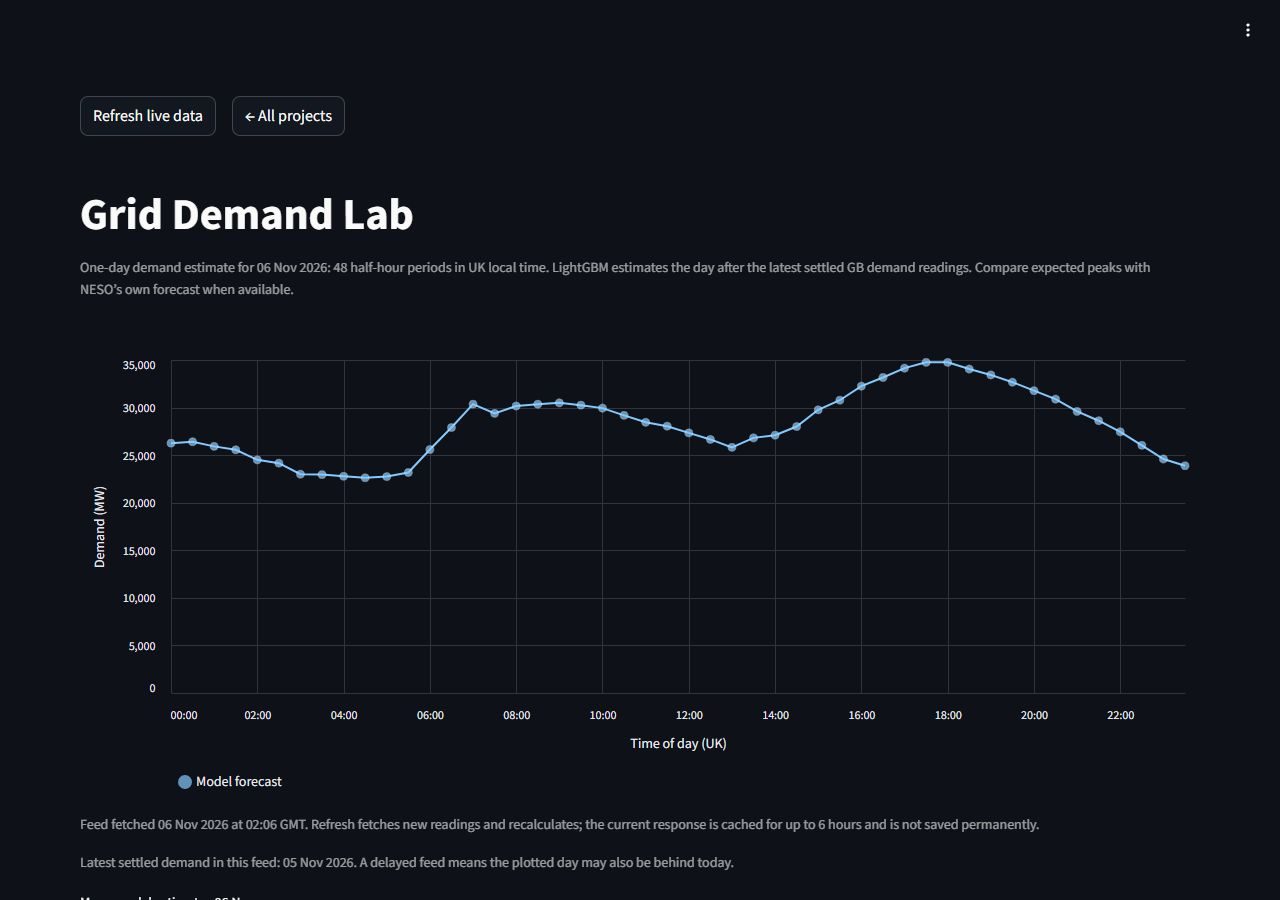
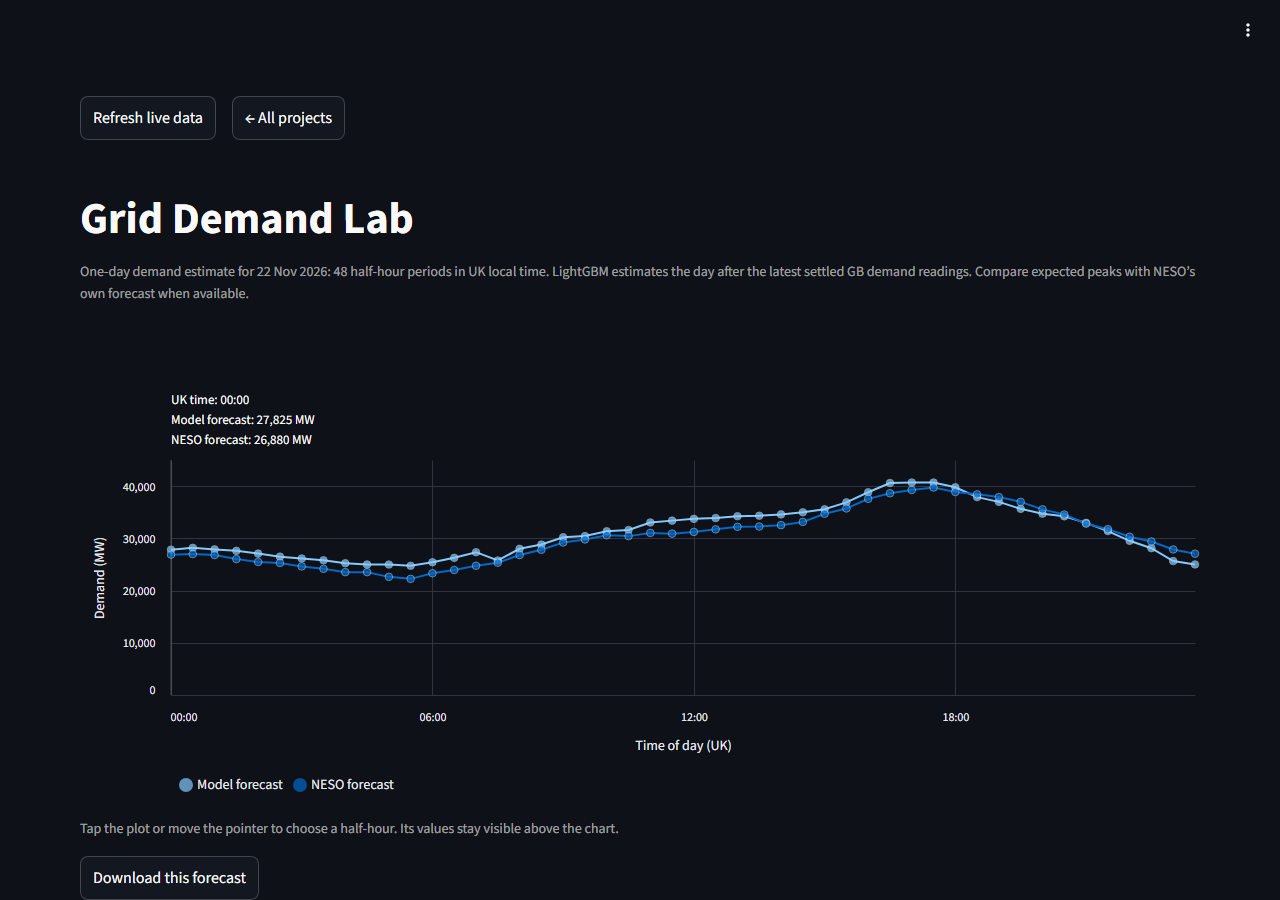
Refresh portfolio project evidence

diff --git a/src/components/studyData.ts b/src/components/studyData.ts
@@ -5,7 +5,7 @@ export const studies = {
   "runbook-desk": {
     title: "Runbook Desk",
     subtitle: "Support cases with a review trail.",
-    revision: "ff2f6d8",
+    revision: "74dacae",
     stack: "React · TypeScript · FastAPI · PostgreSQL",
     live: "https://runbook.artemislab.co.uk/",
     source: "https://github.com/s7a7ic-37/runbook-desk",
@@ -22,17 +22,17 @@ export const studies = {
       {label: "Database retry tests", path: "tests/test_creation_retries.py"},
       {label: "Review and deletion tests", path: "tests/test_workflow.py"},
       {label: "Handoff snapshot tests", path: "frontend/tests/report.test.ts"},
-      {label: "CI run with Docker build", path: "https://github.com/s7a7ic-37/runbook-desk/actions/runs/44918667924"},
+      {label: "CI run with Docker build", path: "https://github.com/s7a7ic-37/runbook-desk/actions/runs/44925210844"},
       {label: "API routes", path: "server/main.py"},
     ],
-    demo: "Open the read-only worked example to see the case and its sources. When the workspace connects, you can edit a reply, record a review and download the handoff.",
+    demo: "Open the worked example and expand a procedure below a suggested check. When the case server connects, you can edit a reply, record a review and download the handoff.",
     limits: "Examples are fictional and browser workspaces are anonymous, not user accounts. OpenAI support is implemented, but real model calls are disabled. Free hosting may take time to start.",
     contribution: "Personal project. The review, save and recovery flows are covered by tests and hosted checks.",
   },
   "pure-news": {
     title: "Pure News",
     subtitle: "A news site with search, comments and votes.",
-    revision: "f1bfac2",
+    revision: "9d94fbb",
     stack: "React · Express · PostgreSQL · Jest · Playwright",
     live: "https://news.artemislab.co.uk/",
     source: "https://github.com/s7a7ic-37/pure-news",
@@ -50,49 +50,50 @@ export const studies = {
       {label: "Saved-story recovery tests", path: "tests/browser/reading-list.spec.js"},
       {label: "API search and validation tests", path: "https://github.com/s7a7ic-37/pure-news-api/blob/e6c5273/__tests__/app.test.js"},
       {label: "API race regression test", path: "https://github.com/s7a7ic-37/pure-news-api/blob/e3dc588/__tests__/comments.models.test.js"},
-      {label: "Frontend CI run", path: "https://github.com/s7a7ic-37/pure-news/actions/runs/44920778529"},
+      {label: "Frontend CI run", path: "https://github.com/s7a7ic-37/pure-news/actions/runs/44927106859"},
       {label: "API CI run", path: "https://github.com/s7a7ic-37/pure-news-api/actions/runs/42480464240"},
     ],
-    demo: "Search Technology for “Running a Node App”, open the story, then return to the same results. When the feed is unavailable, use Read sample edition.",
+    demo: "Search Technology for “Running a Node App”, open the story, then return to the same results. You can open the sample edition while the feed loads.",
     limits: "Voting is anonymous, and sample identities are not user accounts. Saved stories stay in the browser. A public news service would need accounts and moderation; the free API may sleep.",
     contribution: "Started as a Northcoders project. Starter work, sample data and the original team history remain credited in the repository; this page describes later browser and API work.",
   },
   "grid-demand-lab": {
     title: "Grid Demand Lab",
     subtitle: "Estimating tomorrow’s electricity demand.",
-    revision: "7b9f328",
+    revision: "d123576",
     stack: "Python · LightGBM · pandas · Streamlit · NESO API",
     live: "https://grid.artemislab.co.uk/",
     source: "https://github.com/s7a7ic-37/grid-demand-lab",
-    problem: "The dashboard reads Great Britain demand data from NESO, predicts the next day with LightGBM and compares it with NESO’s forecast when available.",
-    flow: ["Read the NESO feed", "Check dates and settlement periods", "Estimate next-day demand", "Compare or download the results"],
+    problem: "The dashboard reads Great Britain demand data from NESO and predicts the next day with LightGBM. It shows an official day-ahead forecast alongside the model when a complete issue is available.",
+    flow: ["Read settled demand", "Check dates and settlement periods", "Estimate next-day demand", "Compare with an official forecast"],
     decisions: [
-      {title: "Match periods by date", text: "Previous-day and previous-week values use the calendar date and settlement period. This handles 46- and 50-period days without shifting every later row.", path: "forecast.py"},
+      {title: "Match periods by date", text: "The model matches past readings by date and settlement period. When the main feed has no comparison, a complete Elexon day-ahead issue must match the same dates, periods and UK clocks.", path: "forecast.py"},
       {title: "Compare with simple baselines", text: "A 28-day holdout and four quarter-end tests compare the model with previous-day and previous-week forecasts. The test periods do not choose the model.", path: "tests/test_forecast.py"},
       {title: "Keep the last forecast after errors", text: "Refresh recalculates with the existing model. If the feed fails, the open session keeps its last chart and CSV with the original timestamp.", path: "app.py"},
     ],
-    proof: "On a 28-day 2025 holdout, model MAE was 1,604 MW; previous-day and previous-week baselines were 1,960 MW and 2,278 MW. Tests cover feed parsing, 46/48/50-period days and CSV export.",
+    proof: "On a 28-day 2025 holdout, model MAE was 1,604 MW. The previous-day and previous-week baselines had errors of 1,960 MW and 2,278 MW. The live CSV matched all 48 periods of one published day-ahead issue.",
     checks: [
       {label: "Forecast and time-split tests", path: "tests/test_forecast.py"},
       {label: "Chart interaction tests", path: "tests/test_plotting.py"},
       {label: "Refresh recovery tests", path: "tests/test_refresh.py"},
-      {label: "Green CI run", path: "https://github.com/s7a7ic-37/grid-demand-lab/actions/runs/44915967482"},
+      {label: "Green CI run", path: "https://github.com/s7a7ic-37/grid-demand-lab/actions/runs/44927052877"},
+      {label: "Official day-ahead forecast", path: "https://bmrs.elexon.co.uk/api-documentation/endpoint/datasets/NDF"},
     ],
-    demo: "Choose a time on the chart, download the displayed forecast, then open the backtests to compare historical errors.",
-    limits: "The tests use historical data and do not show that the model is suitable for grid operations. The live feed can lag; incomplete days use a weekly fallback. Extra repeated-hour predictions reuse period 48. Free hosting may take time to start.",
-    contribution: "Personal project using public NESO data. It is a learning tool, not an operational grid forecast.",
+    demo: "Choose a half-hour on the chart and download the forecast CSV. If the comparison came from Elexon, the CSV includes its issue time and attribution. Open the backtests to compare historical errors.",
+    limits: "This is an exploratory forecast. The live feed can lag, and missing prior-day readings use the matching half-hour from last week. Extra repeated-hour predictions reuse period 48. Free hosting may take time to start.",
+    contribution: "Personal project using public demand data from NESO and Elexon.",
   },
   "travel-planner": {
     title: "Ready, Jet Set, Go!",
     subtitle: "Plan a city trip and adjust the stops.",
-    revision: "fd5bd74",
+    revision: "d982b6c",
     stack: "Next.js · React · TypeScript · Material UI",
     live: "https://travel.artemislab.co.uk/demo/",
     source: "https://github.com/s7a7ic-37/travel-planner",
     problem: "Choose a UK city, trip length and interests, then make changes to the suggested itinerary. Recent plans can be reopened, exported or printed.",
     flow: ["Choose a city and interests", "Generate a suggested plan", "Replace or reorder stops", "Save, export or print"],
     decisions: [
-      {title: "Use curated city lists", text: "Five city catalogues and seven interests feed the planner. It varies suggestions while keeping stops in the selected city.", path: "travel-planner-fe/lib/demo.ts"},
+      {title: "Use curated city lists", text: "Five city catalogues and seven interests feed the planner. When it fills a longer plan with other stops in the city, it shows the number that matched the chosen interests.", path: "travel-planner-fe/lib/demo.ts"},
       {title: "Keep plan files local", text: "JSON exports include the city, trip length, interests and stop order. Imports are limited to 6 KB and checked against known places before replacing the open plan.", path: "travel-planner-fe/app/demo/page.tsx"},
       {title: "Keep newer edits", text: "If a file read finishes after the planner has changed, that older import is discarded. Saving the current plan is a separate action.", path: "travel-planner-fe/app/demo/page.tsx"},
     ],
@@ -102,7 +103,7 @@ export const studies = {
       {label: "Shared itinerary link tests", path: "travel-planner-fe/tests/itinerary.test.mjs"},
       {label: "Planner browser regressions", path: "travel-planner-fe/tests/browser/planner.spec.mjs"},
       {label: "Calendar export tests", path: "travel-planner-fe/tests/calendar.test.mjs"},
-      {label: "Green CI run", path: "https://github.com/s7a7ic-37/travel-planner/actions/runs/44920003116"},
+      {label: "Green CI run", path: "https://github.com/s7a7ic-37/travel-planner/actions/runs/44925081929"},
     ],
     demo: "Pick a city and interests, generate a plan, then try another city. Open Recent itineraries, export a plan or print it.",
     limits: "Places are curated. The demo has no live opening times, prices, bookings or route planning.",

diff --git a/tests/browser/case-studies.spec.js b/tests/browser/case-studies.spec.js
@@ -10,8 +10,8 @@ const evidenceLinks = {
     ["SDK-generated sample ↗", "https://github.com/s7a7ic-37/trace-timeline/blob/950a31b/tests/fixtures/sdk-export.json"],
   ],
   "depot-booking": [
-    ["PostgreSQL API tests ↗", "https://github.com/s7a7ic-37/depot-booking/blob/11c6360/tests/booking.test.mjs"],
-    ["Mobile booking tests ↗", "https://github.com/s7a7ic-37/depot-booking/blob/11c6360/web/tests/booking.spec.js"],
+    ["PostgreSQL API tests ↗", "https://github.com/s7a7ic-37/depot-booking/blob/29b475a/tests/booking.test.mjs"],
+    ["Mobile booking tests ↗", "https://github.com/s7a7ic-37/depot-booking/blob/29b475a/web/tests/booking.spec.js"],
   ],
   "river-data-monitor": [
     ["Import tests ↗", "https://github.com/s7a7ic-37/river-data-monitor/blob/d594ea9/tests/test_monitor.py"],
@@ -31,31 +31,31 @@ const evidenceLinks = {
     ["CI gate verification ↗", "https://github.com/s7a7ic-37/release-check/blob/dcd9f0a/.github/workflows/checks.yml"],
   ],
   "runbook-desk": [
-    ["Database retry tests ↗", "https://github.com/s7a7ic-37/runbook-desk/blob/ff2f6d8/tests/test_creation_retries.py"],
-    ["Review and deletion tests ↗", "https://github.com/s7a7ic-37/runbook-desk/blob/ff2f6d8/tests/test_workflow.py"],
-    ["Handoff snapshot tests ↗", "https://github.com/s7a7ic-37/runbook-desk/blob/ff2f6d8/frontend/tests/report.test.ts"],
-    ["CI run with Docker build ↗", "https://github.com/s7a7ic-37/runbook-desk/actions/runs/44918667924"],
-    ["API routes ↗", "https://github.com/s7a7ic-37/runbook-desk/blob/ff2f6d8/server/main.py"],
+    ["Database retry tests ↗", "https://github.com/s7a7ic-37/runbook-desk/blob/74dacae/tests/test_creation_retries.py"],
+    ["Review and deletion tests ↗", "https://github.com/s7a7ic-37/runbook-desk/blob/74dacae/tests/test_workflow.py"],
+    ["Handoff snapshot tests ↗", "https://github.com/s7a7ic-37/runbook-desk/blob/74dacae/frontend/tests/report.test.ts"],
+    ["CI run with Docker build ↗", "https://github.com/s7a7ic-37/runbook-desk/actions/runs/44925210844"],
+    ["API routes ↗", "https://github.com/s7a7ic-37/runbook-desk/blob/74dacae/server/main.py"],
   ],
   "pure-news": [
-    ["Browser search and browsing tests ↗", "https://github.com/s7a7ic-37/pure-news/blob/f1bfac2/tests/browser/browsing.spec.js"],
-    ["Saved-story recovery tests ↗", "https://github.com/s7a7ic-37/pure-news/blob/f1bfac2/tests/browser/reading-list.spec.js"],
+    ["Browser search and browsing tests ↗", "https://github.com/s7a7ic-37/pure-news/blob/9d94fbb/tests/browser/browsing.spec.js"],
+    ["Saved-story recovery tests ↗", "https://github.com/s7a7ic-37/pure-news/blob/9d94fbb/tests/browser/reading-list.spec.js"],
     ["API search and validation tests ↗", "https://github.com/s7a7ic-37/pure-news-api/blob/e6c5273/__tests__/app.test.js"],
     ["API race regression test ↗", "https://github.com/s7a7ic-37/pure-news-api/blob/e3dc588/__tests__/comments.models.test.js"],
-    ["Frontend CI run ↗", "https://github.com/s7a7ic-37/pure-news/actions/runs/44920778529"],
+    ["Frontend CI run ↗", "https://github.com/s7a7ic-37/pure-news/actions/runs/44927106859"],
     ["API CI run ↗", "https://github.com/s7a7ic-37/pure-news-api/actions/runs/42480464240"],
   ],
   "grid-demand-lab": [
-    ["Forecast and time-split tests ↗", "https://github.com/s7a7ic-37/grid-demand-lab/blob/7b9f328/tests/test_forecast.py"],
-    ["Chart interaction tests ↗", "https://github.com/s7a7ic-37/grid-demand-lab/blob/7b9f328/tests/test_plotting.py"],
-    ["Refresh recovery tests ↗", "https://github.com/s7a7ic-37/grid-demand-lab/blob/7b9f328/tests/test_refresh.py"],
-    ["Green CI run ↗", "https://github.com/s7a7ic-37/grid-demand-lab/actions/runs/44915967482"],
+    ["Forecast and time-split tests ↗", "https://github.com/s7a7ic-37/grid-demand-lab/blob/d123576/tests/test_forecast.py"],
+    ["Chart interaction tests ↗", "https://github.com/s7a7ic-37/grid-demand-lab/blob/d123576/tests/test_plotting.py"],
+    ["Refresh recovery tests ↗", "https://github.com/s7a7ic-37/grid-demand-lab/blob/d123576/tests/test_refresh.py"],
+    ["Green CI run ↗", "https://github.com/s7a7ic-37/grid-demand-lab/actions/runs/44927052877"],
   ],
   "travel-planner": [
-    ["Plan and transfer tests ↗", "https://github.com/s7a7ic-37/travel-planner/blob/fd5bd74/travel-planner-fe/tests/demo.test.mjs"],
-    ["Shared itinerary link tests ↗", "https://github.com/s7a7ic-37/travel-planner/blob/fd5bd74/travel-planner-fe/tests/itinerary.test.mjs"],
-    ["Planner browser regressions ↗", "https://github.com/s7a7ic-37/travel-planner/blob/fd5bd74/travel-planner-fe/tests/browser/planner.spec.mjs"],
-    ["Green CI run ↗", "https://github.com/s7a7ic-37/travel-planner/actions/runs/44920003116"],
+    ["Plan and transfer tests ↗", "https://github.com/s7a7ic-37/travel-planner/blob/d982b6c/travel-planner-fe/tests/demo.test.mjs"],
+    ["Shared itinerary link tests ↗", "https://github.com/s7a7ic-37/travel-planner/blob/d982b6c/travel-planner-fe/tests/itinerary.test.mjs"],
+    ["Planner browser regressions ↗", "https://github.com/s7a7ic-37/travel-planner/blob/d982b6c/travel-planner-fe/tests/browser/planner.spec.mjs"],
+    ["Green CI run ↗", "https://github.com/s7a7ic-37/travel-planner/actions/runs/44925081929"],
   ],
   opslens: [
     ["Forecast validation tests ↗", "https://github.com/s7a7ic-37/ops-lens/blob/32a3610/tests/test_pipeline.py"],
@@ -127,6 +127,7 @@ test("published project cards link to their demos and source", async ({page}) =>
     ["Webhook Delivery Lab", "webhooks", "webhook-delivery-lab", "Open project"],
     ["Trace Timeline", "traces", "trace-timeline", "Open project"],
     ["Query Plan Lab", "plans", "query-plan-lab", "Open project"],
+    ["Grid Demand Lab", "grid", "grid-demand-lab", "Open project"],
     ["Document Search Lab", "search-lab", "document-search-lab", "Open project"],
     ["Release Check", "release", "release-check", "Open project"],
   ]) {

diff --git a/src/components/additionalStudies.ts b/src/components/additionalStudies.ts
@@ -42,7 +42,7 @@ export const additionalStudies = {
   "depot-booking": {
     title: "Depot Booking",
     subtitle: "Reserve an hour at a loading bay.",
-    revision: "11c6360",
+    revision: "29b475a",
     stack: "React · ASP.NET Core · PostgreSQL · IndexedDB",
     live: "https://depot.artemislab.co.uk/",
     source: "https://github.com/s7a7ic-37/depot-booking",
@@ -53,7 +53,7 @@ export const additionalStudies = {
       {title: "Keep the original during a move", text: "If the new slot is taken, PostgreSQL rolls back the move. A successful move gets a new ID so an older tab cannot cancel it.", path: "api/Program.cs"},
       {title: "Make the demo work in two tabs", text: "The hosted demo uses IndexedDB's unique slot key and write transaction to show the same race in one browser.", path: "web/src/demo.ts"},
     ],
-    proof: "PostgreSQL tests cover concurrent moves, workspace isolation and stale cancellation. Phone checks cover retaining keyboard focus after cancellation and downloading the daily CSV.",
+    proof: "PostgreSQL tests cover concurrent moves, workspace isolation and stale cancellation. Phone checks cover keyboard focus after a reservation or cancellation and downloading the daily CSV.",
     checks: [{label: "PostgreSQL API tests", path: "tests/booking.test.mjs"}, {label: "Mobile booking tests", path: "web/tests/booking.spec.js"}],
     demo: "Reserve two slots for tomorrow using sample references. In two tabs of the same browser, try moving them to the same bay and hour. Open the day’s CSV to check both bookings.",
     limits: "The hosted demo stores sample bookings in the browser. The ASP.NET Core and PostgreSQL version is available in the source.",
